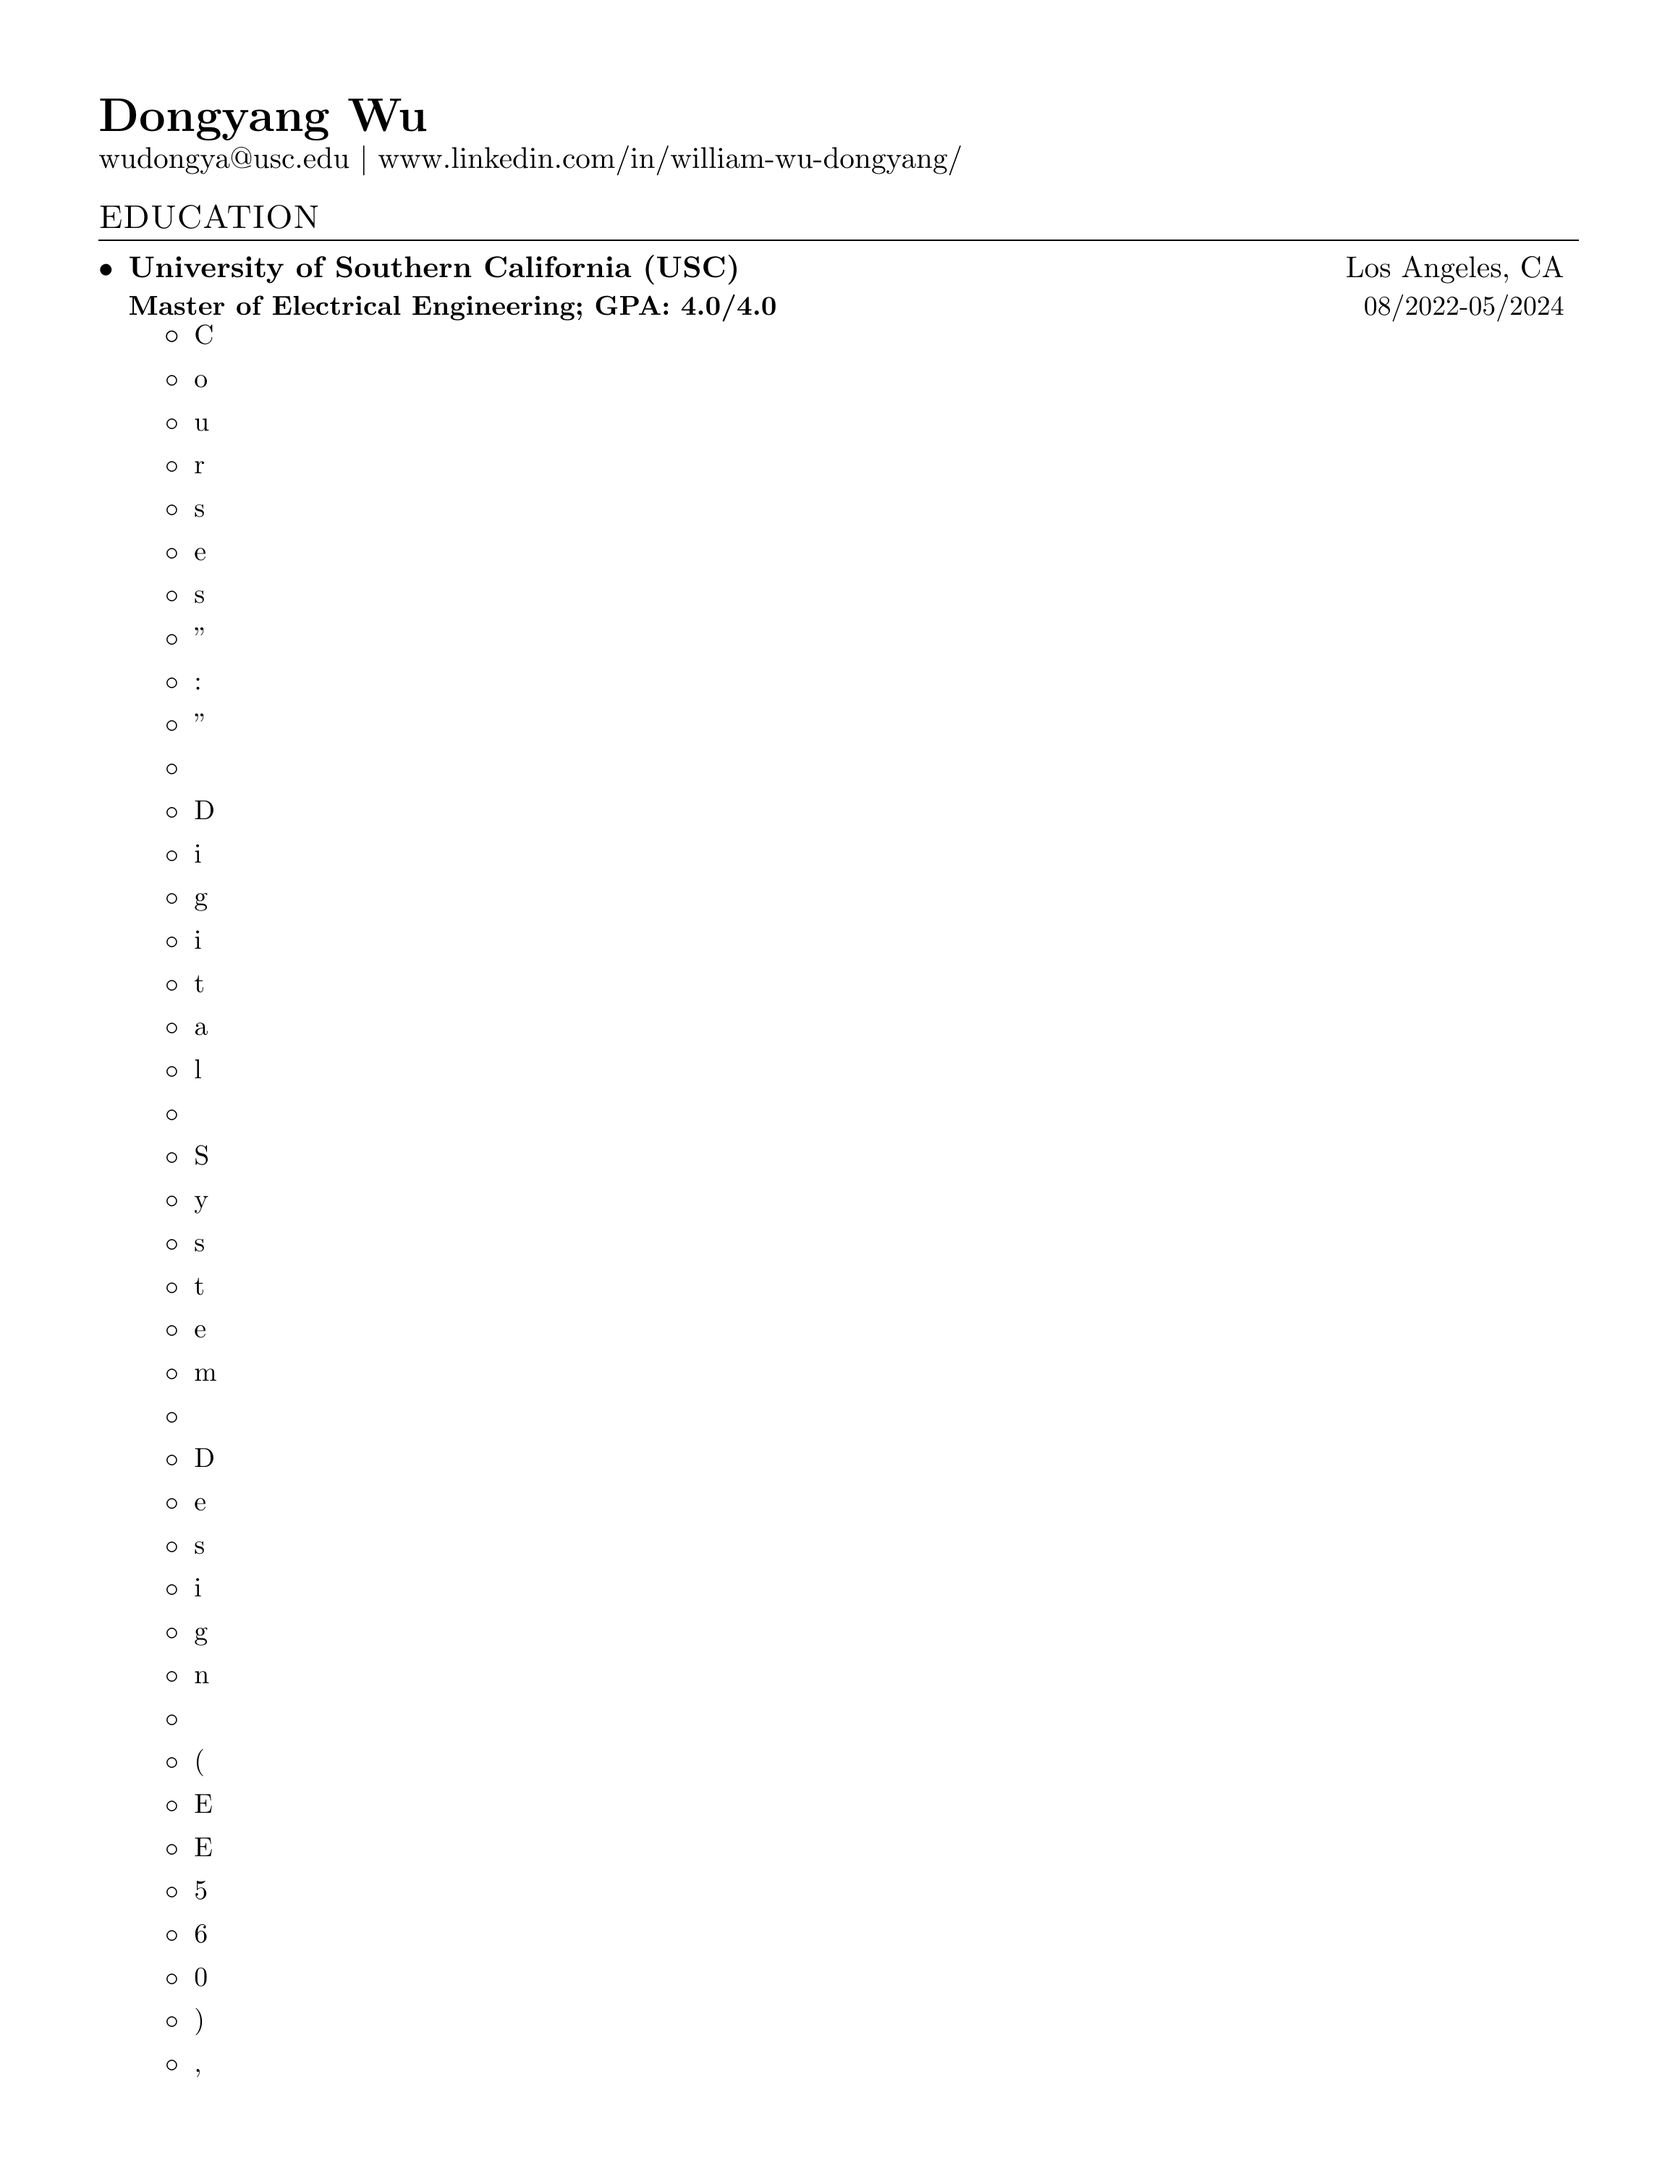
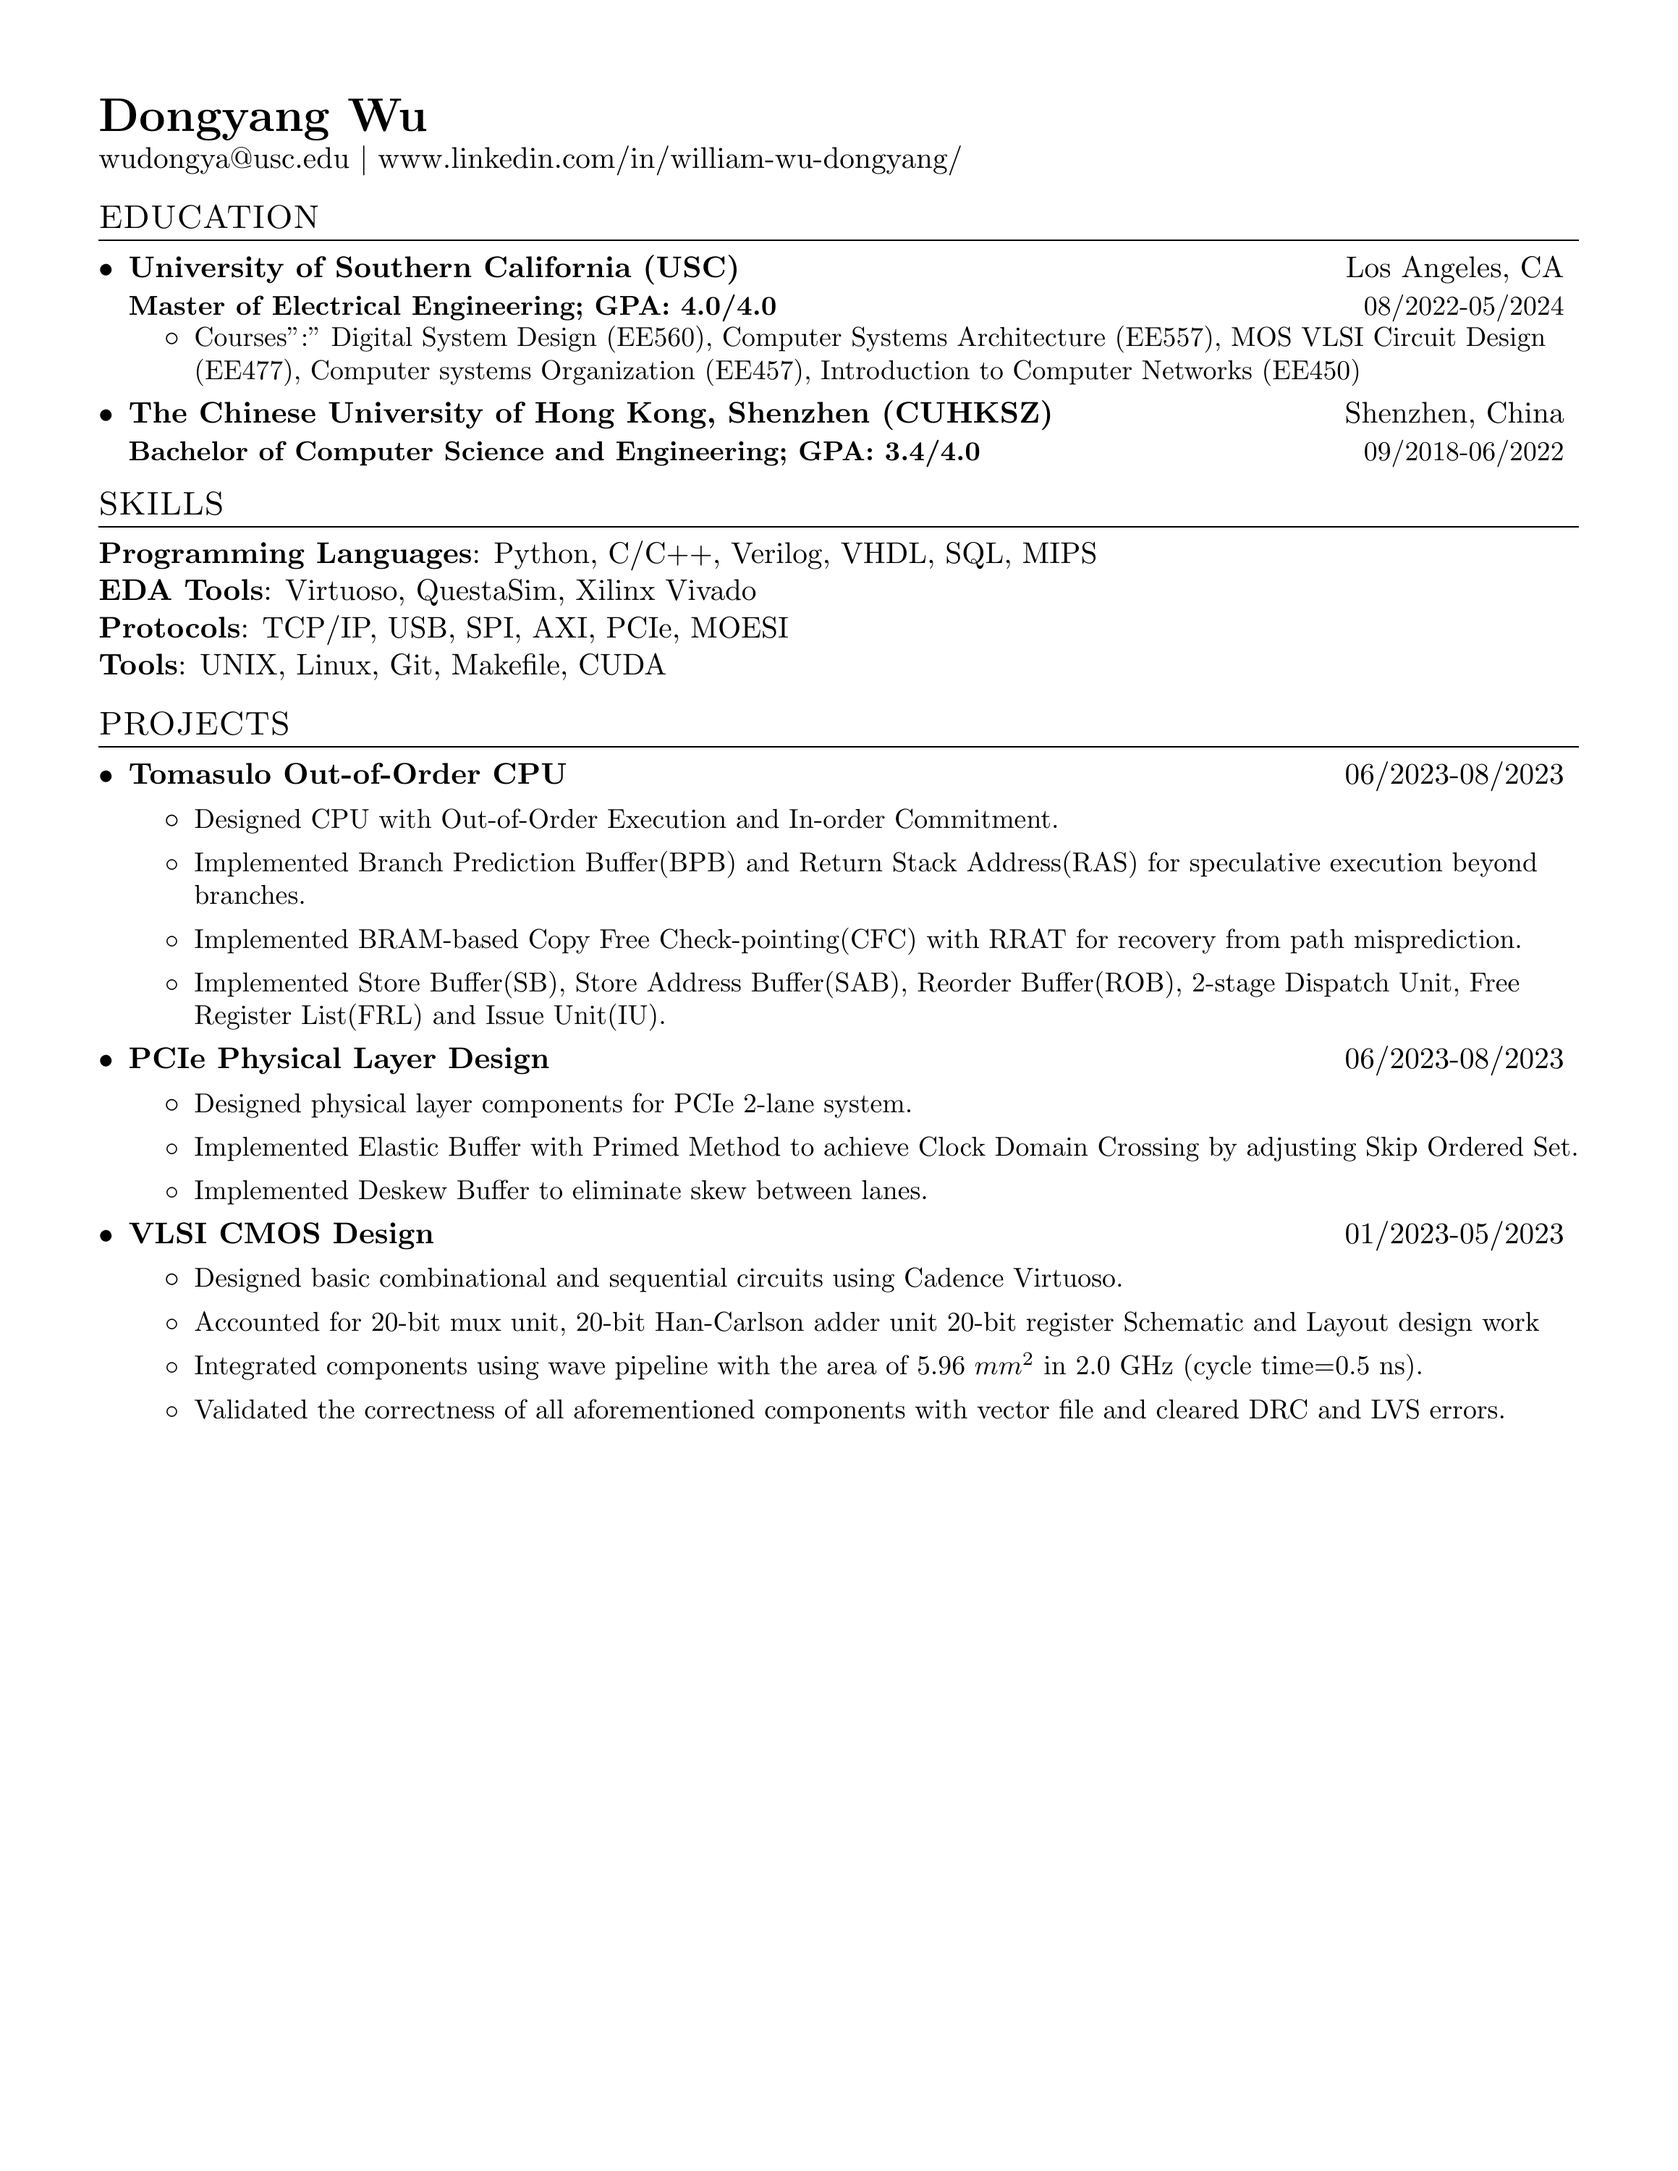
Built latest pdf for the repository

diff --git a/template.tex b/template.tex
@@ -116,202 +116,7 @@
     {Master of Electrical Engineering; GPA: 4.0/4.0
 }{08/2022-05/2024}
 \resumeItemListStart
-	\resumeItemOne{C}
-	\resumeItemOne{o}
-	\resumeItemOne{u}
-	\resumeItemOne{r}
-	\resumeItemOne{s}
-	\resumeItemOne{e}
-	\resumeItemOne{s}
-	\resumeItemOne{"}
-	\resumeItemOne{:}
-	\resumeItemOne{"}
-	\resumeItemOne{ }
-	\resumeItemOne{D}
-	\resumeItemOne{i}
-	\resumeItemOne{g}
-	\resumeItemOne{i}
-	\resumeItemOne{t}
-	\resumeItemOne{a}
-	\resumeItemOne{l}
-	\resumeItemOne{ }
-	\resumeItemOne{S}
-	\resumeItemOne{y}
-	\resumeItemOne{s}
-	\resumeItemOne{t}
-	\resumeItemOne{e}
-	\resumeItemOne{m}
-	\resumeItemOne{ }
-	\resumeItemOne{D}
-	\resumeItemOne{e}
-	\resumeItemOne{s}
-	\resumeItemOne{i}
-	\resumeItemOne{g}
-	\resumeItemOne{n}
-	\resumeItemOne{ }
-	\resumeItemOne{(}
-	\resumeItemOne{E}
-	\resumeItemOne{E}
-	\resumeItemOne{5}
-	\resumeItemOne{6}
-	\resumeItemOne{0}
-	\resumeItemOne{)}
-	\resumeItemOne{,}
-	\resumeItemOne{ }
-	\resumeItemOne{C}
-	\resumeItemOne{o}
-	\resumeItemOne{m}
-	\resumeItemOne{p}
-	\resumeItemOne{u}
-	\resumeItemOne{t}
-	\resumeItemOne{e}
-	\resumeItemOne{r}
-	\resumeItemOne{ }
-	\resumeItemOne{S}
-	\resumeItemOne{y}
-	\resumeItemOne{s}
-	\resumeItemOne{t}
-	\resumeItemOne{e}
-	\resumeItemOne{m}
-	\resumeItemOne{s}
-	\resumeItemOne{ }
-	\resumeItemOne{A}
-	\resumeItemOne{r}
-	\resumeItemOne{c}
-	\resumeItemOne{h}
-	\resumeItemOne{i}
-	\resumeItemOne{t}
-	\resumeItemOne{e}
-	\resumeItemOne{c}
-	\resumeItemOne{t}
-	\resumeItemOne{u}
-	\resumeItemOne{r}
-	\resumeItemOne{e}
-	\resumeItemOne{ }
-	\resumeItemOne{(}
-	\resumeItemOne{E}
-	\resumeItemOne{E}
-	\resumeItemOne{5}
-	\resumeItemOne{5}
-	\resumeItemOne{7}
-	\resumeItemOne{)}
-	\resumeItemOne{,}
-	\resumeItemOne{ }
-	\resumeItemOne{M}
-	\resumeItemOne{O}
-	\resumeItemOne{S}
-	\resumeItemOne{ }
-	\resumeItemOne{V}
-	\resumeItemOne{L}
-	\resumeItemOne{S}
-	\resumeItemOne{I}
-	\resumeItemOne{ }
-	\resumeItemOne{C}
-	\resumeItemOne{i}
-	\resumeItemOne{r}
-	\resumeItemOne{c}
-	\resumeItemOne{u}
-	\resumeItemOne{i}
-	\resumeItemOne{t}
-	\resumeItemOne{ }
-	\resumeItemOne{D}
-	\resumeItemOne{e}
-	\resumeItemOne{s}
-	\resumeItemOne{i}
-	\resumeItemOne{g}
-	\resumeItemOne{n}
-	\resumeItemOne{ }
-	\resumeItemOne{(}
-	\resumeItemOne{E}
-	\resumeItemOne{E}
-	\resumeItemOne{4}
-	\resumeItemOne{7}
-	\resumeItemOne{7}
-	\resumeItemOne{)}
-	\resumeItemOne{,}
-	\resumeItemOne{ }
-	\resumeItemOne{C}
-	\resumeItemOne{o}
-	\resumeItemOne{m}
-	\resumeItemOne{p}
-	\resumeItemOne{u}
-	\resumeItemOne{t}
-	\resumeItemOne{e}
-	\resumeItemOne{r}
-	\resumeItemOne{ }
-	\resumeItemOne{s}
-	\resumeItemOne{y}
-	\resumeItemOne{s}
-	\resumeItemOne{t}
-	\resumeItemOne{e}
-	\resumeItemOne{m}
-	\resumeItemOne{s}
-	\resumeItemOne{ }
-	\resumeItemOne{O}
-	\resumeItemOne{r}
-	\resumeItemOne{g}
-	\resumeItemOne{a}
-	\resumeItemOne{n}
-	\resumeItemOne{i}
-	\resumeItemOne{z}
-	\resumeItemOne{a}
-	\resumeItemOne{t}
-	\resumeItemOne{i}
-	\resumeItemOne{o}
-	\resumeItemOne{n}
-	\resumeItemOne{ }
-	\resumeItemOne{(}
-	\resumeItemOne{E}
-	\resumeItemOne{E}
-	\resumeItemOne{4}
-	\resumeItemOne{5}
-	\resumeItemOne{7}
-	\resumeItemOne{)}
-	\resumeItemOne{,}
-	\resumeItemOne{ }
-	\resumeItemOne{I}
-	\resumeItemOne{n}
-	\resumeItemOne{t}
-	\resumeItemOne{r}
-	\resumeItemOne{o}
-	\resumeItemOne{d}
-	\resumeItemOne{u}
-	\resumeItemOne{c}
-	\resumeItemOne{t}
-	\resumeItemOne{i}
-	\resumeItemOne{o}
-	\resumeItemOne{n}
-	\resumeItemOne{ }
-	\resumeItemOne{t}
-	\resumeItemOne{o}
-	\resumeItemOne{ }
-	\resumeItemOne{C}
-	\resumeItemOne{o}
-	\resumeItemOne{m}
-	\resumeItemOne{p}
-	\resumeItemOne{u}
-	\resumeItemOne{t}
-	\resumeItemOne{e}
-	\resumeItemOne{r}
-	\resumeItemOne{ }
-	\resumeItemOne{N}
-	\resumeItemOne{e}
-	\resumeItemOne{t}
-	\resumeItemOne{w}
-	\resumeItemOne{o}
-	\resumeItemOne{r}
-	\resumeItemOne{k}
-	\resumeItemOne{s}
-	\resumeItemOne{ }
-	\resumeItemOne{(}
-	\resumeItemOne{E}
-	\resumeItemOne{E}
-	\resumeItemOne{4}
-	\resumeItemOne{5}
-	\resumeItemOne{0}
-	\resumeItemOne{)}
-	\resumeItemOne{
-}
+	\resumeItemOne{Courses":" Digital System Design (EE560), Computer Systems Architecture (EE557), MOS VLSI Circuit Design (EE477), Computer systems Organization (EE457), Introduction to Computer Networks (EE450)}
 \resumeItemListEnd
 \resumeSubheading
     {The Chinese University of Hong Kong, Shenzhen (CUHKSZ)}{Shenzhen, China}
